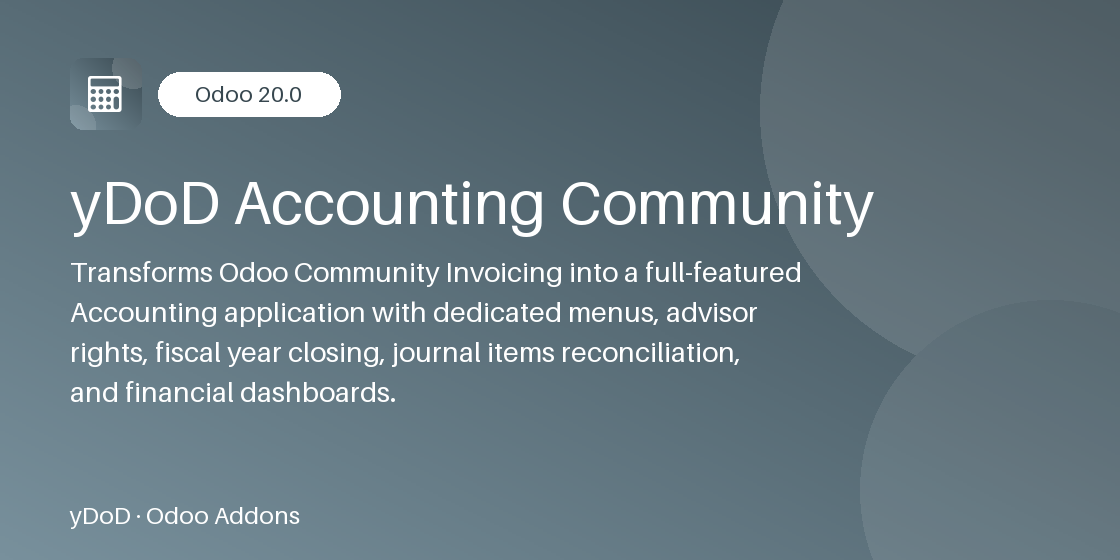
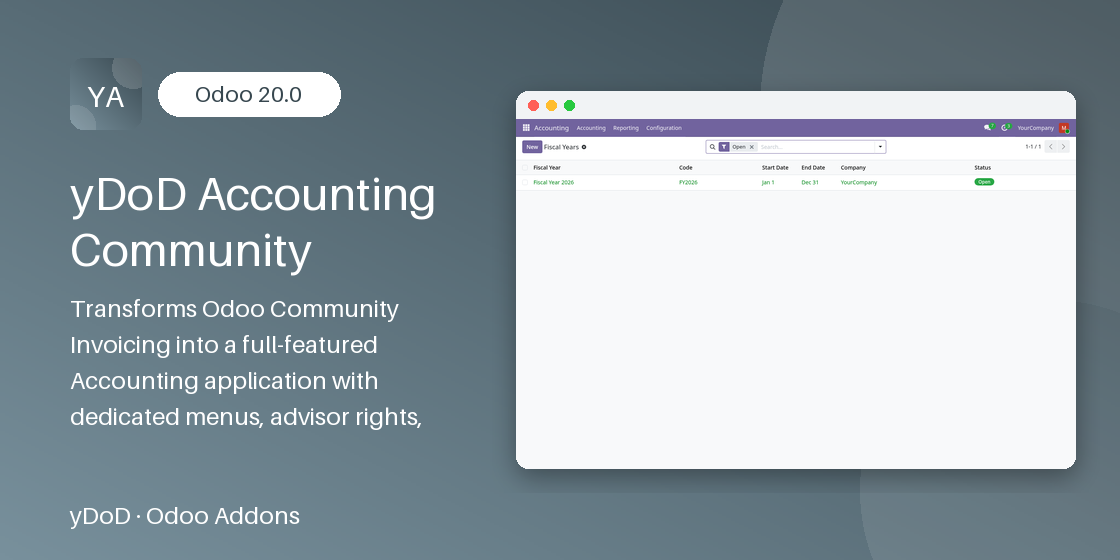
Store visuals: animated demo as the Odoo Apps cover

diff --git a/ydod_accounting_community/static/description/index.html b/ydod_accounting_community/static/description/index.html
@@ -24,6 +24,44 @@
             </div>
         </div>
     </section>
+<!-- oaa:showcase:start -->
+<section style="padding:56px 16px;background:linear-gradient(180deg,#37474F14 0%,#ffffff 70%)">
+  <div style="max-width:1100px;margin:0 auto;text-align:center">
+    <span style="display:inline-block;padding:6px 16px;border-radius:999px;background:#37474F;color:#fff;font-weight:700;font-size:13px;letter-spacing:.08em">SEE IT IN ACTION</span>
+    <h2 style="font-size:32px;font-weight:800;color:#1f2937;margin:16px 0 28px">yDoD Accounting Community at work</h2>
+    <div style="max-width:1000px;margin:0 auto;border-radius:20px;overflow:hidden;box-shadow:0 22px 60px rgba(15,23,42,.22)">
+      <img src="demo.gif" alt="yDoD Accounting Community animated demo" style="width:100%;display:block"/>
+    </div>
+    <div class="row" style="margin-top:32px">
+      <div class="col-12" style="padding:12px">
+        <div style="height:100%;background:#fff;border:1px solid #eef0f4;border-radius:16px;overflow:hidden;box-shadow:0 10px 30px rgba(15,23,42,.10)">
+          <img src="screenshot_1.png" alt="Fiscal Years" style="width:100%;display:block"/>
+          <div style="padding:14px 18px;font-size:15px;color:#334155;text-align:left"><span style="display:inline-block;width:26px;height:26px;line-height:26px;border-radius:13px;background:#37474F;color:#fff;text-align:center;font-weight:700;font-size:13px;margin-right:10px">1</span>Fiscal Years</div>
+        </div>
+      </div>
+      <div class="col-md-6" style="padding:12px">
+        <div style="height:100%;background:#fff;border:1px solid #eef0f4;border-radius:16px;overflow:hidden;box-shadow:0 10px 30px rgba(15,23,42,.10)">
+          <img src="screenshot_2.png" alt="Fiscal Years · detail" style="width:100%;display:block"/>
+          <div style="padding:14px 18px;font-size:15px;color:#334155;text-align:left"><span style="display:inline-block;width:26px;height:26px;line-height:26px;border-radius:13px;background:#37474F;color:#fff;text-align:center;font-weight:700;font-size:13px;margin-right:10px">2</span>Fiscal Years · detail</div>
+        </div>
+      </div>
+      <div class="col-md-6" style="padding:12px">
+        <div style="height:100%;background:#fff;border:1px solid #eef0f4;border-radius:16px;overflow:hidden;box-shadow:0 10px 30px rgba(15,23,42,.10)">
+          <img src="screenshot_3.png" alt="Manual Reconciliation" style="width:100%;display:block"/>
+          <div style="padding:14px 18px;font-size:15px;color:#334155;text-align:left"><span style="display:inline-block;width:26px;height:26px;line-height:26px;border-radius:13px;background:#37474F;color:#fff;text-align:center;font-weight:700;font-size:13px;margin-right:10px">3</span>Manual Reconciliation</div>
+        </div>
+      </div>
+      <div class="col-md-6" style="padding:12px">
+        <div style="height:100%;background:#fff;border:1px solid #eef0f4;border-radius:16px;overflow:hidden;box-shadow:0 10px 30px rgba(15,23,42,.10)">
+          <img src="screenshot_4.png" alt="Manual Reconciliation · detail" style="width:100%;display:block"/>
+          <div style="padding:14px 18px;font-size:15px;color:#334155;text-align:left"><span style="display:inline-block;width:26px;height:26px;line-height:26px;border-radius:13px;background:#37474F;color:#fff;text-align:center;font-weight:700;font-size:13px;margin-right:10px">4</span>Manual Reconciliation · detail</div>
+        </div>
+      </div>
+    </div>
+  </div>
+</section>
+<!-- oaa:showcase:end -->
+
 
     <!-- Key Features Section -->
     <section class="mb-5">

diff --git a/ydod_accounting_community/__manifest__.py b/ydod_accounting_community/__manifest__.py
@@ -45,7 +45,12 @@
         'views/account_journal_views.xml',
         'views/accounting_menus.xml'],
     'demo': ['demo/account_fiscal_year_demo.xml'],
-    'images': ['static/description/banner.png'],
+    'images': [   'static/description/demo.gif',
+        'static/description/banner.png',
+        'static/description/screenshot_1.png',
+        'static/description/screenshot_2.png',
+        'static/description/screenshot_3.png',
+        'static/description/screenshot_4.png'],
     'installable': True,
     'application': True,
 }
